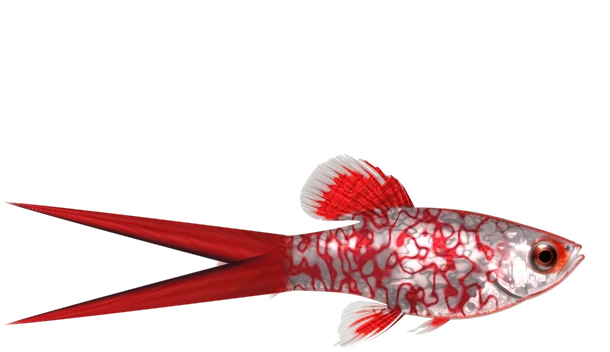
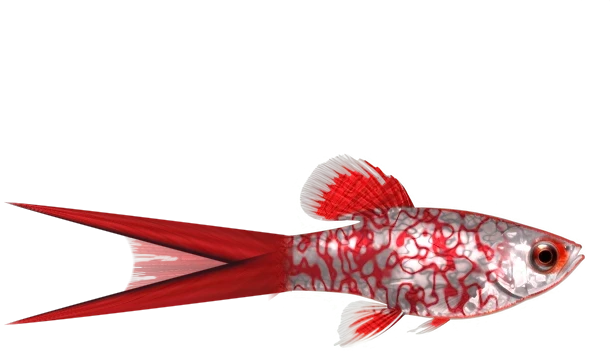
art(guppy): 雙劍中間補上一小片半透明尾鰭膜
架構審查的選擇性意見：參考照片兩把劍中間還有一小片尾鰭膜，新圖中間是空的。
鰭膜長度從身長的約 0.25 拉長到約 0.55，超過兩把劍分開的地方，所以看得到；圖的大小和位置不變。

Claude-Session: https://claude.ai/code/session_01KsbS4vLZbfPytVNgNzSz4q

Changed region(s): [[0.1869, 0.6562, 0.3738, 0.8438]]

diff --git a/scripts/art/guppy-fins.py b/scripts/art/guppy-fins.py
@@ -189,7 +189,7 @@ def sword(n, which):
   tp = np.tan(np.radians(PS))
   spread = 0.22 * ph + along * tp                                           # 劍中線離中軸的距離
   if which == 3:
-    rm = 0.34 * f.L * (0.72 + 0.28 * np.clip(np.abs(dy) / np.maximum(spread, 1), 0, 1) ** 2)   # 中間最短：凹進去
+    rm = 0.58 * f.L * (0.9 + 0.1 * np.clip(np.abs(dy) / np.maximum(spread, 1), 0, 1) ** 2)   # 中間最短：凹進去
     memb = np.clip((spread + 2 - np.abs(dy)) / 2, 0, 1)
   else:
     sd = sides[0]
@@ -205,7 +205,7 @@ def sword(n, which):
   m = bilinear(f.a, f.ox - np.cos(np.radians(ts)) * k * rsrc, f.oy - np.sin(np.radians(ts)) * k * rsrc)
   rays = 0.5 + 0.5 * np.sin(np.radians(phi) * 40)
   m[..., :3] *= (1 - 0.12 * rays)[..., None]
-  thin = 0.6 if which == 3 else 0.9                                        # 雙劍中間比較透明
+  thin = 0.72 if which == 3 else 0.9                                        # 雙劍中間比較透明
   m[..., 3] *= memb * thin * np.clip(1 - 0.4 * (along / np.maximum(rm, 1)) ** 2, 0, 1)
   out = m
   u = np.clip(along / RT, 0, 1)
